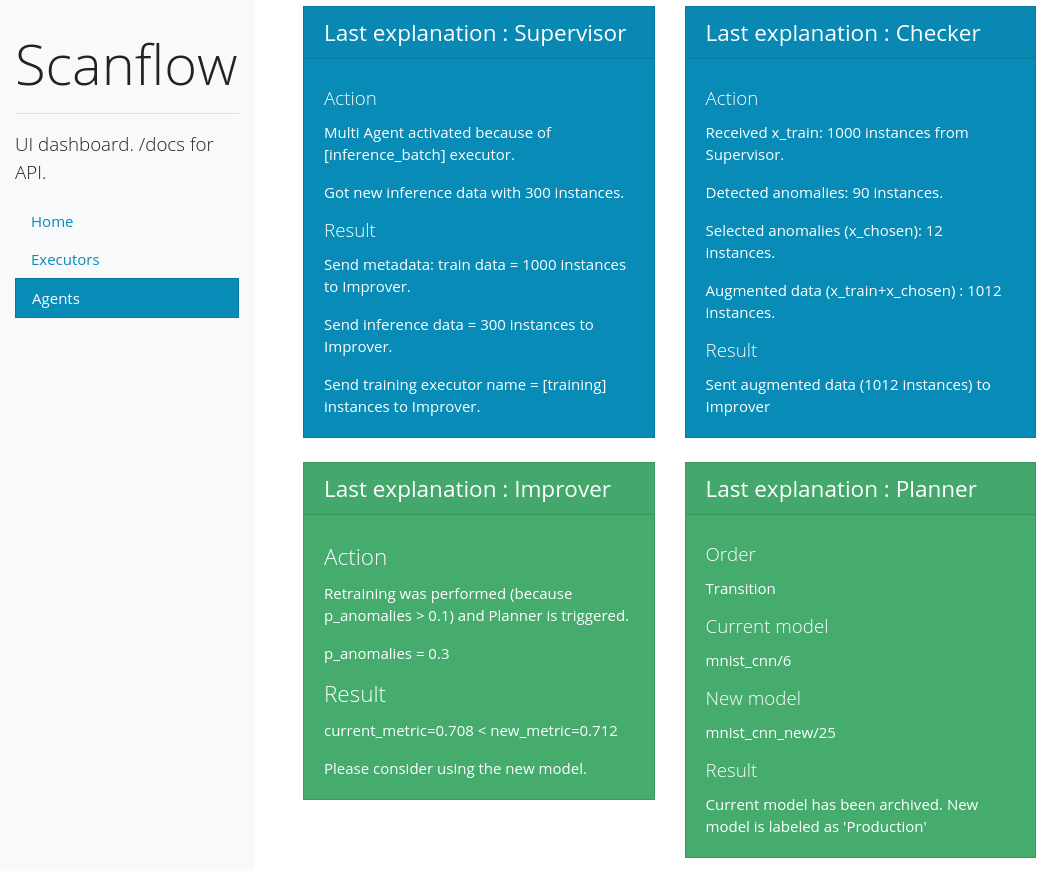
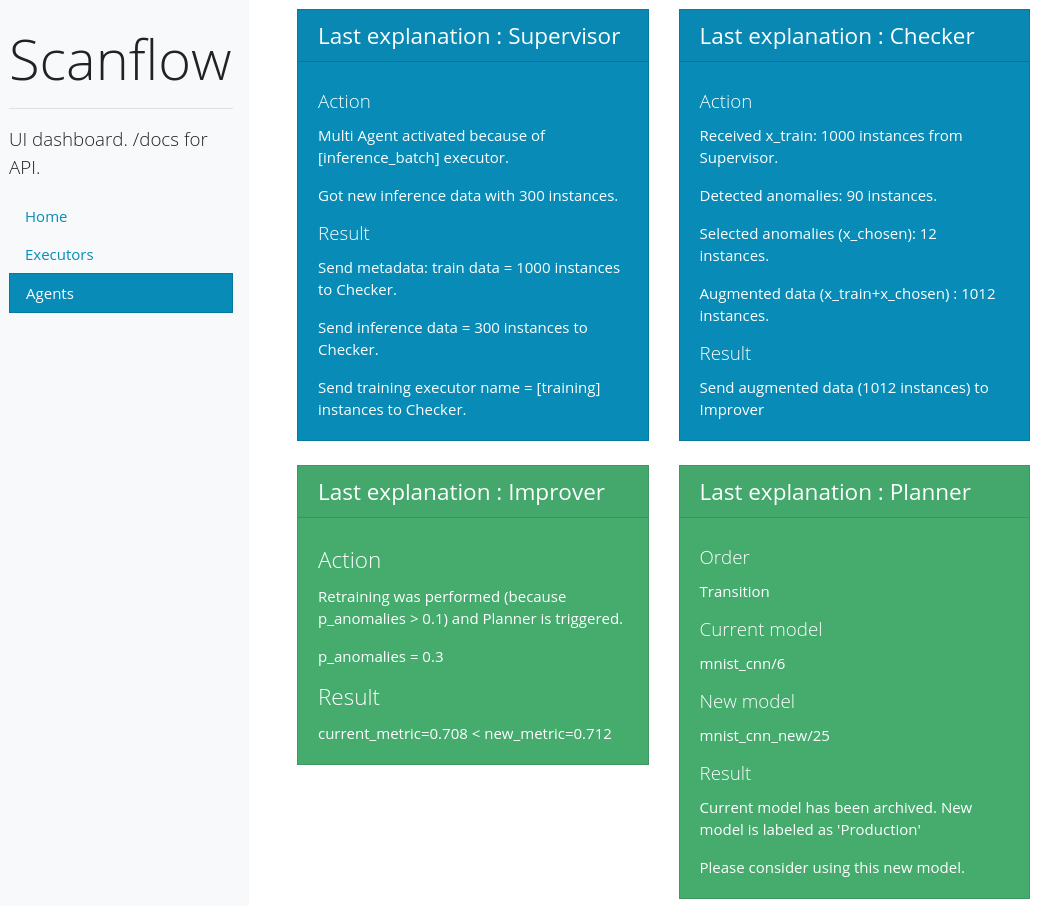
Checker explanation in dashboard

diff --git a/scanflow/server/ui.py b/scanflow/server/ui.py
@@ -103,11 +103,11 @@ def supervisor_explanation(client):
                     html.P(f"Got new inference data with {x_inference_len} instances.", className="card-text"),
 
                     html.H5(f"Result", className="card-title"),
-                    html.P(f"Send metadata: train data = {x_train_len} instances to Improver.",
+                    html.P(f"Send metadata: train data = {x_train_len} instances to Checker.",
                            className="card-text"),
-                    html.P(f"Send inference data = {x_inference_len} instances to Improver.",
+                    html.P(f"Send inference data = {x_inference_len} instances to Checker.",
                            className="card-text"),
-                    html.P(f"Send training executor name = [{training_executor_name}] instances to Improver.",
+                    html.P(f"Send training executor name = [{training_executor_name}] instances to Checker.",
                            className="card-text")
                 ]
             ),
@@ -149,7 +149,7 @@ def checker_explanation(client):
                     html.P(f"Augmented data (x_train+x_chosen) : {x_new_train_len} instances.", className="card-text"),
 
                     html.H5(f"Result", className="card-title"),
-                    html.P(f"Sent augmented data ({x_new_train_len} instances) to Improver", className="card-text")
+                    html.P(f"Send augmented data ({x_new_train_len} instances) to Improver", className="card-text")
                 ]
             ),
         ]
@@ -193,7 +193,6 @@ def improver_explanation(client):
 
                         html.H4(f"Result", className="card-title"),
                         html.P(f"{result}", className="card-text"),
-                        html.P(f"Please consider using the new model.", className="card-text")
                     ]
                 ),
             ]
@@ -242,7 +241,8 @@ def planner_explanation(client):
                     html.H5(f"New model", className="card-title"),
                     html.P(f"{response['new_model_name']}/{response['new_model_version']}", className="card-text"),
                     html.H5(f"Result", className="card-title"),
-                    html.P(f"{response['result']}", className="card-text")
+                    html.P(f"{response['result']}", className="card-text"),
+                    html.P(f"Please consider using this new model.", className="card-text")
                 ]
             ),
         ]

diff --git a/tutorials/mnist/utils.py b/tutorials/mnist/utils.py
@@ -48,15 +48,14 @@ def save_images(x):
     with open(images, 'wb') as f:
         np.save(f, x)
         
-def sample_train_mnist():
+def sample_train_mnist(n=1000):
     mnist_dataset = tf.keras.datasets.mnist
     (x_train, y_train), (x_test, y_test) = mnist_dataset.load_data()
 
     np.random.seed(42)
 
-    sample_training = 1000
     x_idx = np.random.choice(range(len(x_train)), 
-                                  size=sample_training, replace=False)
+                                  size=n, replace=False)
     x_train_sample, y_train_sample = x_train[x_idx], y_train[x_idx] 
 
     base_path = os.path.dirname(os.getcwd())
